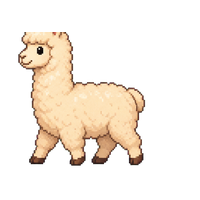
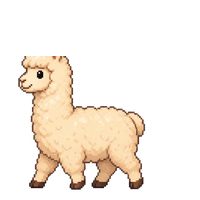
fix(farm): lower alpaca codex art

Changed region(s): [[0.09, 0.15, 0.75, 0.96], [0.27, 0.57, 0.3, 0.6]]

diff --git a/dist/web.js b/dist/web.js
@@ -244,7 +244,7 @@ nav a.on,nav a:hover{color:var(--leaf-deep);background:#e6f3d8}
 .ranch-codex-item.locked{background:rgba(242,245,239,.68)}
 .ranch-sprite{display:block;width:100%;aspect-ratio:1;border-radius:10px;background-image:url("${BASE}/assets/animal-codex-atlas.png?v=20260806b");
   background-repeat:no-repeat;background-size:500% 400%;background-position:var(--sx) var(--sy)}
-.ranch-sprite-alpaca{background-image:url("${BASE}/assets/alpaca-codex.png?v=20260806a");background-size:100% 100%;background-position:center}
+.ranch-sprite-alpaca{background-image:url("${BASE}/assets/alpaca-codex.png?v=20260806b");background-size:100% 100%;background-position:center}
 .ranch-codex-item.locked .ranch-sprite{filter:grayscale(.85);opacity:.58}
 .ranch-codex-name{display:flex;align-items:center;justify-content:space-between;gap:6px;margin-top:8px;font-family:var(--serif);font-weight:700}
 .ranch-codex-state{flex:0 0 auto;border-radius:999px;padding:0 6px;font:600 10px/1.8 system-ui;color:var(--ink-soft);background:#edf2e8}
